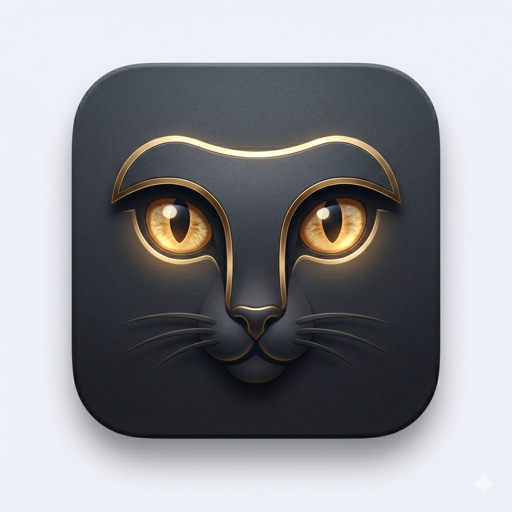
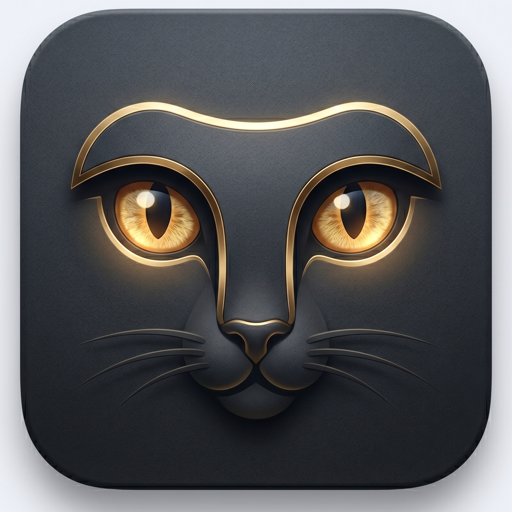
update

diff --git a/macos/Sources/TypeflowRegister/main.swift b/macos/Sources/TypeflowRegister/main.swift
@@ -2,7 +2,8 @@ import Carbon
 import Foundation
 
 let typeflowInputMethodID = "io.github.nnnickg.typeflow.inputmethod.Typeflow"
-let typeflowModeID = "io.github.nnnickg.typeflow.inputmethod.Typeflow.Ukrainian"
+let typeflowInputModeID = "Typeflow"
+let typeflowModeSourceID = "io.github.nnnickg.typeflow.inputmethod.Typeflow.Ukrainian"
 let hitoolboxDomain = "com.apple.HIToolbox" as CFString
 let enabledInputSourcesKey = "AppleEnabledInputSources" as CFString
 
@@ -22,52 +23,24 @@ func findInputSource(id targetID: String) -> TISInputSource? {
     }
 }
 
-func inputSourceEntryExists(
-    _ entries: [[String: Any]],
-    kind: String,
-    bundleID: String,
-    inputMode: String? = nil
-) -> Bool {
-    entries.contains { entry in
-        guard entry["InputSourceKind"] as? String == kind,
-              entry["Bundle ID"] as? String == bundleID
-        else {
-            return false
-        }
-
-        return entry["Input Mode"] as? String == inputMode
-    }
-}
-
 func ensureHIToolboxEnabledRecords() {
-    var entries = CFPreferencesCopyAppValue(
+    var entries = (CFPreferencesCopyAppValue(
         enabledInputSourcesKey,
         hitoolboxDomain
-    ) as? [[String: Any]] ?? []
-
-    if !inputSourceEntryExists(
-        entries,
-        kind: "Input Mode",
-        bundleID: typeflowInputMethodID,
-        inputMode: typeflowModeID
-    ) {
-        entries.append([
-            "Bundle ID": typeflowInputMethodID,
-            "Input Mode": typeflowModeID,
-            "InputSourceKind": "Input Mode",
-        ])
+    ) as? [[String: Any]] ?? []).filter { entry in
+        entry["Bundle ID"] as? String != typeflowInputMethodID
     }
 
-    if !inputSourceEntryExists(
-        entries,
-        kind: "Keyboard Input Method",
-        bundleID: typeflowInputMethodID
-    ) {
-        entries.append([
-            "Bundle ID": typeflowInputMethodID,
-            "InputSourceKind": "Keyboard Input Method",
-        ])
-    }
+    entries.append([
+        "Bundle ID": typeflowInputMethodID,
+        "Input Mode": typeflowInputModeID,
+        "InputSourceKind": "Input Mode",
+    ])
+
+    entries.append([
+        "Bundle ID": typeflowInputMethodID,
+        "InputSourceKind": "Keyboard Input Method",
+    ])
 
     CFPreferencesSetAppValue(
         enabledInputSourcesKey,
@@ -106,19 +79,19 @@ guard inputMethodEnableStatus == noErr else {
     exit(1)
 }
 
-guard let mode = findInputSource(id: typeflowModeID) else {
-    FileHandle.standardError.write(Data("registered app, but input mode was not visible to TIS: \(typeflowModeID)\n".utf8))
+guard let mode = findInputSource(id: typeflowModeSourceID) else {
+    FileHandle.standardError.write(Data("registered app, but input mode was not visible to TIS: \(typeflowModeSourceID)\n".utf8))
     exit(1)
 }
 
-let enableStatus = TISEnableInputSource(mode)
-guard enableStatus == noErr else {
-    FileHandle.standardError.write(Data("TISEnableInputSource failed for \(typeflowModeID): \(enableStatus)\n".utf8))
+let modeEnableStatus = TISEnableInputSource(mode)
+guard modeEnableStatus == noErr else {
+    FileHandle.standardError.write(Data("TISEnableInputSource failed for \(typeflowModeSourceID): \(modeEnableStatus)\n".utf8))
     exit(1)
 }
 
 print("enabled input method: \(typeflowInputMethodID)")
-print("enabled input source: \(typeflowModeID)")
+print("enabled input source: \(typeflowModeSourceID)")
 
 ensureHIToolboxEnabledRecords()
 print("updated HIToolbox enabled input sources")

diff --git a/docs/handoff.md b/docs/handoff.md
@@ -107,15 +107,14 @@ starts an `IMKServer` from `Info.plist`, exposes `TypeflowInputController`, maps
 ANSI keycodes to Rust physical key indexes, calls the FFI, and applies
 `TypeflowAction` through `NSTextInputClient.insertText(_:replacementRange:)`.
 `make -C macos install-user` copies the bundle to `~/Library/Input Methods/`,
-calls `TISRegisterInputSource`, and enables the parent input method plus the
-visible Ukrainian mode. It also writes the `com.apple.HIToolbox`
-`AppleEnabledInputSources` entries that System Settings reads for mode-enabled
-input methods. TIS sees:
+calls `TISRegisterInputSource`, enables the parent input method plus the visible
+Ukrainian mode, and writes the `com.apple.HIToolbox`
+`AppleEnabledInputSources` entries that System Settings reads. TIS sees:
 
 - `io.github.nnnickg.typeflow.inputmethod.Typeflow`
   (`TISTypeKeyboardInputMethodModeEnabled`)
 - `io.github.nnnickg.typeflow.inputmethod.Typeflow.Ukrainian`
-  (`TISTypeKeyboardInputMode`, language `uk`)
+  (`TISTypeKeyboardInputMode`, language `uk`, input mode `Typeflow`)
 
 This is build/register/TIS-discovery verified, not manually host-tested in
 TextEdit yet.
@@ -151,19 +150,18 @@ real GUI smoke.
 Plan:
 
 1. Run `make -C macos install-user`.
-2. Reopen System Settings → Keyboard → Input Sources. Typeflow should be in
-   the Ukrainian language bucket; search for `Typeflow` if the list is cached.
+2. Reopen System Settings → Keyboard → Input Sources. Typeflow should appear as
+   an enabled input mode; search for `Typeflow` if the list is cached.
 3. Type `ghsdbn` in TextEdit and verify `привіт`.
 4. Confirm the one visible Ukrainian mode can emit both Latin and Cyrillic
    scripts.
-5. If macOS rejects that in real apps, split into two paired modes/input
-   sources.
+5. If macOS rejects that in real apps, split into two paired input sources.
 
 The non-obvious part: macOS expects each input source to be tied to one primary
 language/script. The current Punto-style approach exposes one Ukrainian mode and
 lets the Rust engine emit either Latin or Cyrillic text. If that fails in real
-apps, fall back to registering two paired modes/input sources and switching
-between them programmatically (KeyKey-style).
+apps, fall back to registering two paired input sources and switching between
+them programmatically (KeyKey-style).
 
 ### Regression corpus + calibration
 

diff --git a/docs/architecture.md b/docs/architecture.md
@@ -163,9 +163,11 @@ Current files:
   and applies `TfAction` to `NSTextInputClient`.
 - `Sources/TypeflowInputMethod/main.swift` starts the `IMKServer`.
 - `Sources/TypeflowRegister/main.swift` calls `TISRegisterInputSource` after
-  install and enables the parent input method plus its visible Ukrainian mode.
+  install, enables the parent input method plus its visible Ukrainian mode, and
+  writes the `com.apple.HIToolbox` `AppleEnabledInputSources` records that
+  System Settings reads.
 - `Resources/Info.plist` defines a mode-enabled input method bundle with one
-  visible Ukrainian mode,
+  visible Ukrainian mode. The `InputModeID` is `Typeflow`; the selectable TIS source id is
   `io.github.nnnickg.typeflow.inputmethod.Typeflow.Ukrainian`. The bundle id
   intentionally contains `.inputmethod.` because TIS depends on that old naming
   convention.

diff --git a/README.md b/README.md
@@ -1,9 +1,5 @@
 # Typeflow
 
-<p align="center">
-  <img src=".github/assets/typeflow-icon.png" alt="Typeflow icon" width="128" height="128">
-</p>
-
 Typeflow is a macOS input method that should make English plus one configurable
 secondary keyboard layout disappear while typing. Punto-style auto-detection,
 but as a real macOS `InputMethodKit` bundle (not a CGEventTap that backspaces